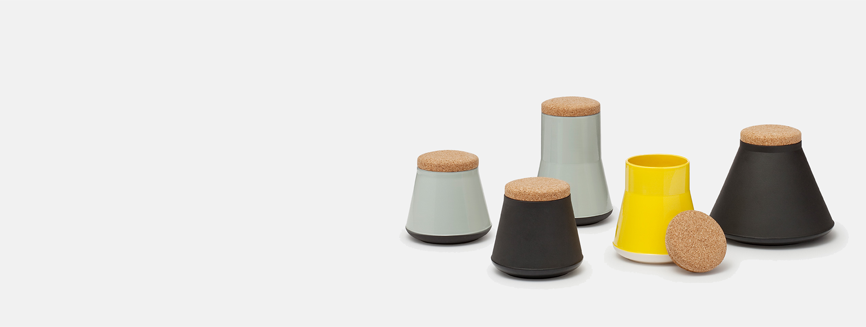
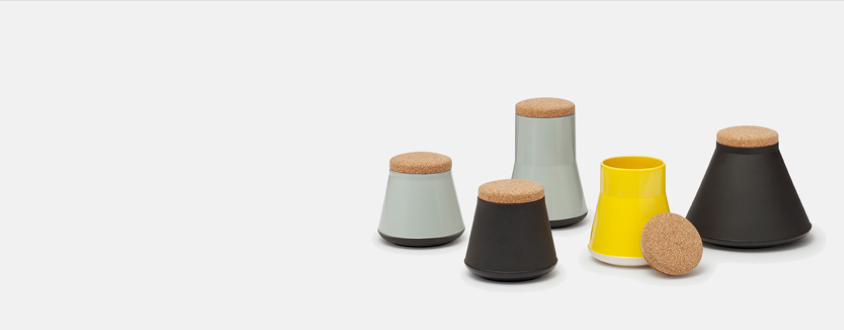
Add files via upload

Changed region(s): [[0.4313, 0.2752, 0.9242, 0.8869], [0.9242, 0.4587, 0.955, 0.6422], [0.955, 0.6422, 0.9858, 0.7034]]

diff --git a/css/style.css b/css/style.css
@@ -522,7 +522,7 @@ body {
 /*---BANNER----*/
 .banner {
   width: 100%;
-  height: 100vh;
+  height: 90vh;
   position: relative;
   background: center/cover no-repeat;
   -webkit-animation: slide 20s ease-in-out infinite;
@@ -740,12 +740,24 @@ body {
     margin-bottom: 50px;
   }
 }
+@media (max-width: 700px) {
+  .features__item {
+    margin: 0 auto 20px;
+  }
+}
 .features__last-item {
   margin-right: -25px;
 }
 @media (max-width: 950px) {
   .features__last-item {
     margin-left: -25px;
+  }
+}
+@media (max-width: 700px) {
+  .features__last-item {
+    padding-bottom: 20px;
+    margin-left: -10px;
+    margin-right: 0;
   }
 }
 .features__title {
@@ -762,6 +774,12 @@ body {
   .features__item-info {
     margin-left: 29px;
     text-align: left;
+  }
+}
+@media (max-width: 700px) {
+  .features__icon {
+    max-width: 65px;
+    max-height: 60px;
   }
 }
 .features__img-container {
@@ -792,4 +810,159 @@ body {
   .reverse-item .features__icon {
     margin-right: 15px;
   }
+}
+@media (max-width: 950px) {
+  .reverse-item .features__icon {
+    margin-right: 5px;
+  }
+}
+
+/*----ACCESSORIES----*/
+.accessories__content {
+  display: -webkit-box;
+  display: -ms-flexbox;
+  display: flex;
+}
+.accessories__item-title {
+  max-width: 230px;
+  margin-bottom: 38px;
+  font-size: 30px;
+  text-transform: uppercase;
+}
+@media (max-width: 1200px) {
+  .accessories__item-title {
+    margin-bottom: 30px;
+    font-size: 25px;
+  }
+}
+@media (max-width: 950px) {
+  .accessories__item-title {
+    margin-bottom: 20px;
+    font-size: 20px;
+  }
+}
+@media (max-width: 700px) {
+  .accessories__item-title {
+    margin-bottom: 15px;
+    font-size: 16px;
+  }
+}
+@media (max-width: 500px) {
+  .accessories__item-title {
+    margin-bottom: 10px;
+    font-size: 12px;
+  }
+}
+.accessories__item-link {
+  padding: 2px 5px;
+  text-transform: uppercase;
+  border: 1px solid transparent;
+}
+.accessories__item-link:hover {
+  border: 1px solid;
+  -webkit-transition: all 0.6s;
+  transition: all 0.6s;
+}
+@media (max-width: 950px) {
+  .accessories__item-link {
+    font-size: 12px;
+  }
+}
+@media (max-width: 700px) {
+  .accessories__item-link {
+    padding: 2px 2px;
+    font-size: 10px;
+  }
+}
+@media (max-width: 500px) {
+  .accessories__item-link {
+    padding: 2px 2px;
+    font-size: 8px;
+  }
+}
+.accessories__items {
+  width: 80%;
+}
+.accessories__items-box {
+  display: -webkit-box;
+  display: -ms-flexbox;
+  display: flex;
+}
+.accessories__img {
+  width: 100%;
+}
+
+.vertical-item {
+  width: 25%;
+  padding: 50px 0 0 50px;
+  background: url(../img/3.png) no-repeat;
+}
+@media (max-width: 1200px) {
+  .vertical-item {
+    padding: 45px 0 0 45px;
+  }
+}
+@media (max-width: 950px) {
+  .vertical-item {
+    padding: 35px 0 0 35px;
+  }
+}
+@media (max-width: 700px) {
+  .vertical-item {
+    padding: 20px 0 0 20px;
+  }
+}
+@media (max-width: 500px) {
+  .vertical-item {
+    padding: 10px 0 0 10px;
+  }
+}
+
+.green-text {
+  color: #749d26;
+}
+
+.img-item {
+  width: 30%;
+}
+
+.horizontal-item {
+  width: 70%;
+  padding: 50px 0 0 50px;
+}
+@media (max-width: 1200px) {
+  .horizontal-item {
+    padding: 45px 0 0 45px;
+  }
+}
+@media (max-width: 950px) {
+  .horizontal-item {
+    padding: 35px 0 0 35px;
+  }
+}
+@media (max-width: 700px) {
+  .horizontal-item {
+    padding: 20px 0 0 20px;
+  }
+}
+@media (max-width: 500px) {
+  .horizontal-item {
+    padding: 10px 0 0 10px;
+  }
+}
+
+.horizontal-item-top {
+  background: url(../img/9.png) no-repeat;
+}
+
+.horizontal-item-bottom {
+  background: url(../img/4.png) no-repeat;
+}
+
+.blue-text {
+  color: #599ba7;
+}
+
+.black-text {
+  color: #352b30;
 }

diff --git a/index.html b/index.html
@@ -89,6 +89,37 @@
       </div>
     </div>
   </section>
+  <section class="accessories">
+    <div class="accessories__content">
+      <div class="accessories__item vertical-item">
+        <h3 class="accessories__item-title green-text">Patio furniture vietnam</h3>
+        <a href="" class="accessories__item-link green-text">View detail
+          &#8594</a>
+      </div>
+      <div class="accessories__items">
+        <div class="accessories__items-box">
+          <div class="accessories__item img-item">
+            <img src="img/2.png" alt="Airplane" class="accessories__img">
+          </div>
+          <div class="accessories__item horizontal-item horizontal-item-top">
+            <h3 class="accessories__item-title blue-text">Design by jarnet park trend 2020</h3>
+            <a href="" class="accessories__item-link blue-text">View detail
+              &#8594</a>
+          </div>
+        </div>
+        <div class="accessories__items-box">
+          <div class="accessories__item horizontal-item horizontal-item-bottom">
+            <h3 class="accessories__item-title black-text">Ceramics wm munoz</h3>
+            <a href="" class="accessories__item-link black-text">View detail
+              &#8594</a>
+          </div>
+          <div class="accessories__item img-item">
+            <img src="img/5.png" alt="Apples" class="accessories__img">
+          </div>
+        </div>
+      </div>
+    </div>
+  </section>
 <footer class="footer">
   <div class="container"></div>
   <div class="copyright">
